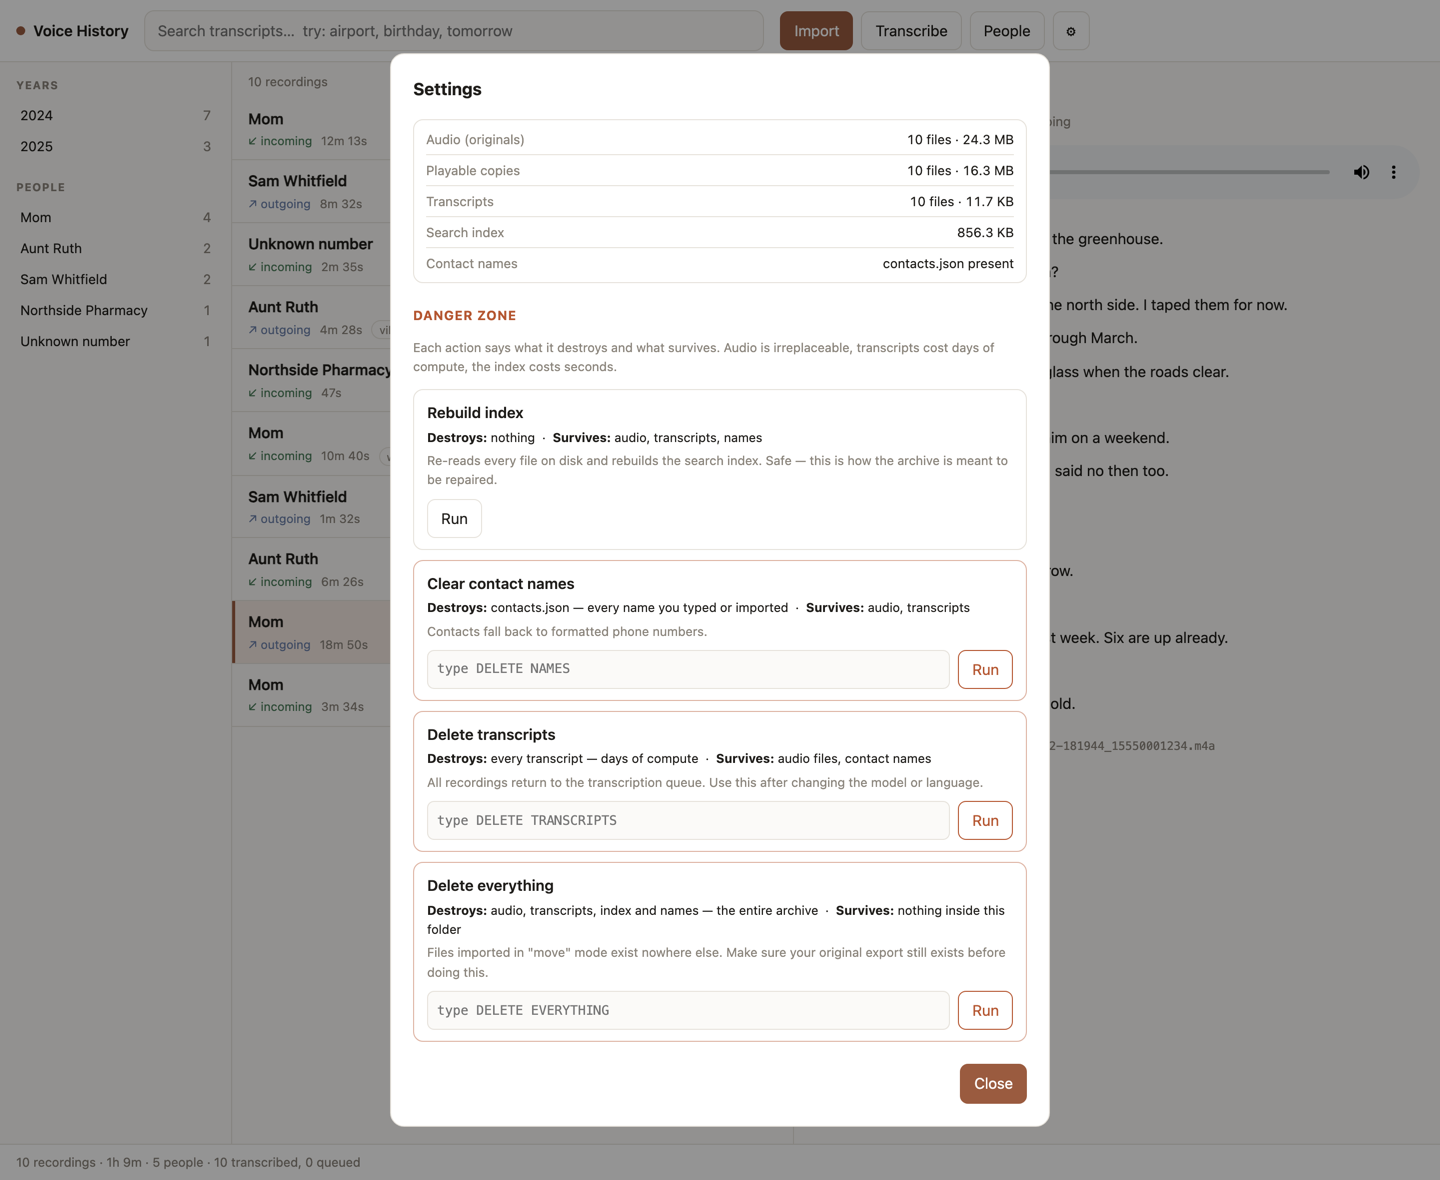
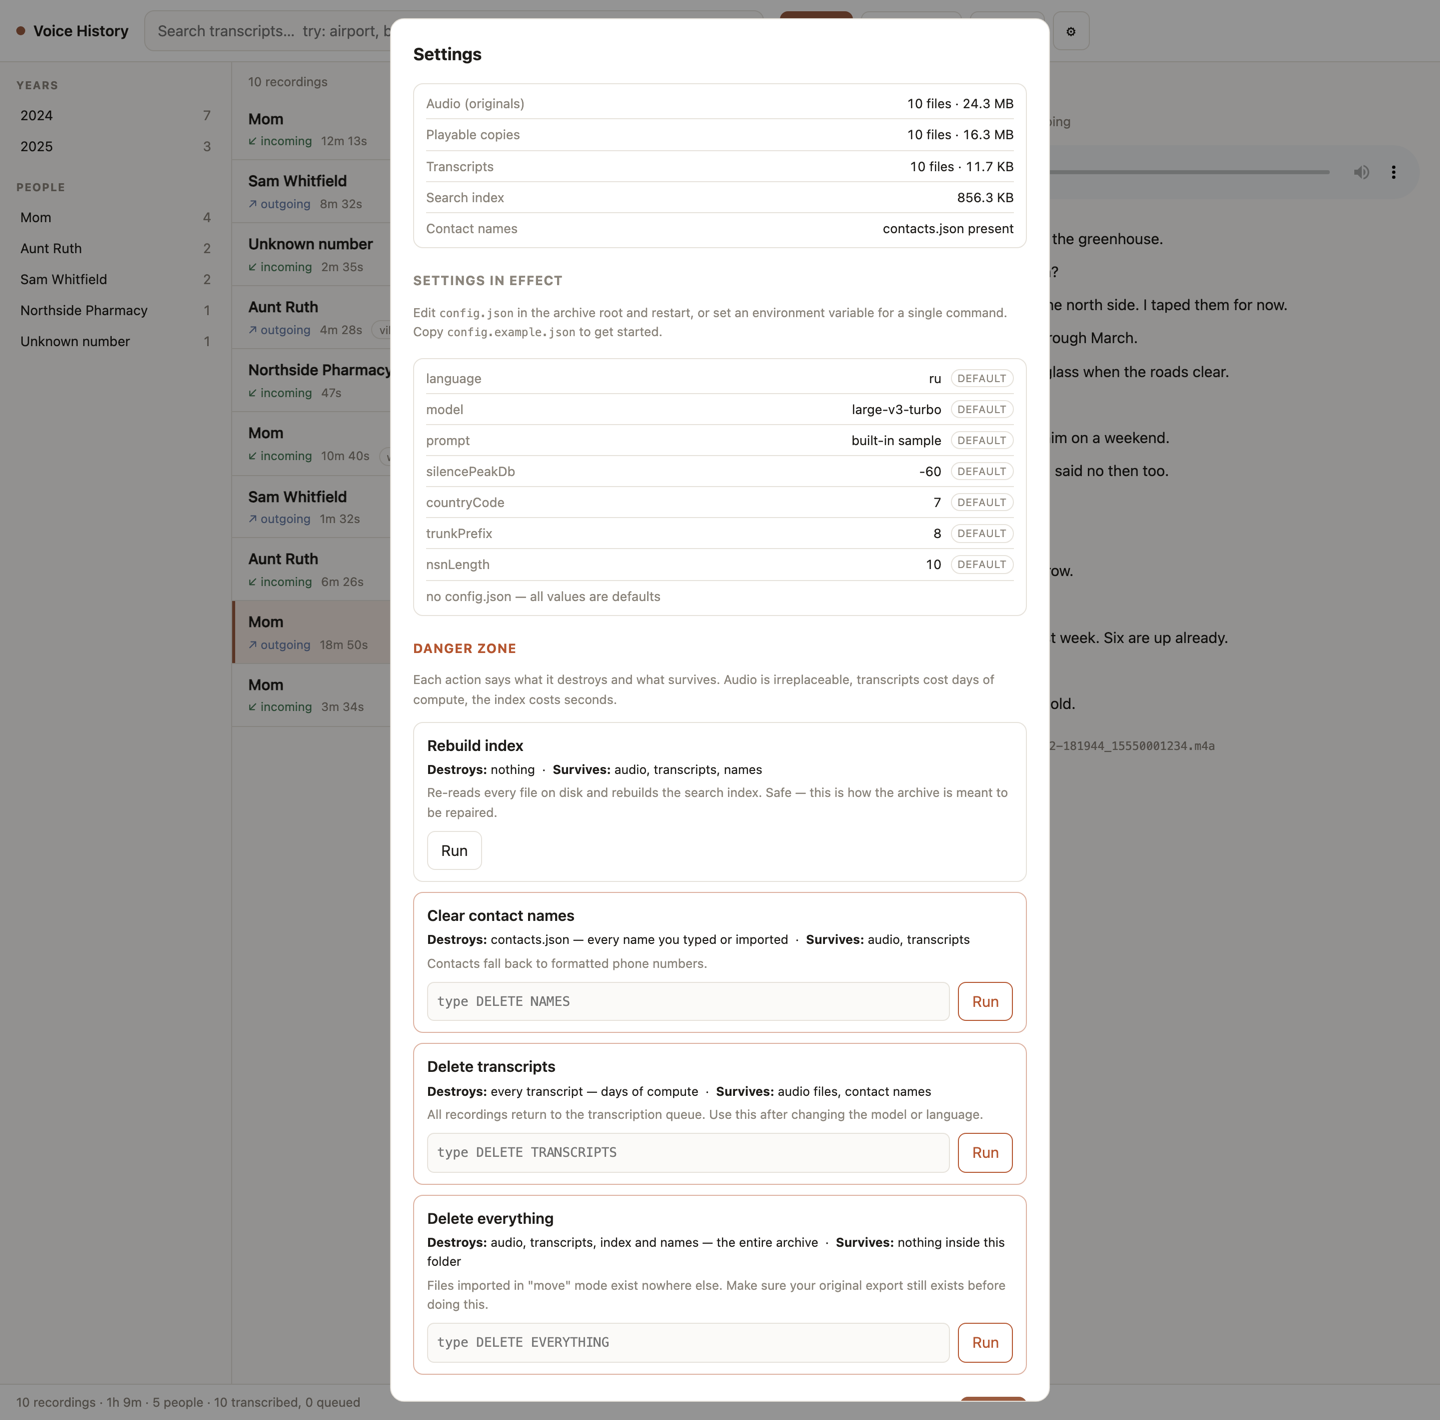
Add a config file, so settings are not env-only
Settings were read straight from process.env in whichever module needed them.
That made them invisible — nothing on disk recorded a choice — and unsafe: a
language set for `npm start` but forgotten for `node cli/vh.js transcribe`
would silently transcribe part of an archive with the wrong one.

core/config.js is now the single source, resolving environment variable over
config.json over built-in default, and reporting which of the three each value
came from. Settings displays that, so "why is it doing this" is answerable
without reading code. config.example.json is the committed template; a real
config.json stays local.

Model and silence threshold are configurable too, having been constants.

diff --git a/core/config.js b/core/config.js
@@ -1,0 +1,92 @@
+// Single source of truth for settings.
+//
+// Before this existed, every setting was read straight from process.env in
+// whichever module needed it. That made them invisible (nothing on disk records
+// your choices) and unsafe: setting a language for `npm start` but forgetting it
+// for `node cli/vh.js transcribe` silently transcribed part of the archive with
+// the wrong one.
+//
+// Precedence, highest first:
+//   1. environment variable   — one-off override for a single command
+//   2. config.json at the archive root  — your persistent settings
+//   3. built-in default
+//
+// VH_ROOT is deliberately NOT part of config.json: the file lives inside the
+// archive, so it cannot tell the program where the archive is.
+import fs from 'node:fs';
+import path from 'node:path';
+import { paths } from './paths.js';
+
+export const CONFIG_FILE = path.join(paths.root, 'config.json');
+
+function fromFile() {
+  try {
+    const raw = JSON.parse(fs.readFileSync(CONFIG_FILE, 'utf8'));
+    return raw && typeof raw === 'object' ? raw : {};
+  } catch (e) {
+    if (e.code !== 'ENOENT') {
+      console.warn(`config.json could not be read (${e.message}); using defaults`);
+    }
+    return {};
+  }
+}
+
+const file = fromFile();
+
+const pick = (envKey, fileValue, fallback) => {
+  const env = process.env[envKey];
+  if (env !== undefined && env !== '') return env;
+  // An empty string in the file is meaningful for trunkPrefix ("no prefix"),
+  // so only undefined and null fall through to the default.
+  if (fileValue !== undefined && fileValue !== null) return fileValue;
+  return fallback;
+};
+
+const numbering = file.numbering ?? {};
+
+/** Spoken language of the recordings, or 'auto' to detect per file. */
+export const LANGUAGE = String(pick('VH_LANGUAGE', file.language, 'ru'));
+
+/** Whisper model name, matching bin/models/ggml-<name>.bin */
+export const MODEL = String(pick('VH_MODEL', file.model, 'large-v3-turbo'));
+
+/**
+ * Priming prompt. `null` means "use the built-in sample for LANGUAGE" — see
+ * transcribe.js, which owns the samples.
+ */
+export const PROMPT = process.env.VH_PROMPT ?? file.prompt ?? null;
+
+/** Peak level below which a recording is treated as silent, in dBFS. */
+export const SILENCE_PEAK_DB = Number(pick('VH_SILENCE_PEAK_DB', file.silencePeakDb, -60));
+
+/** National numbering plan, used to read numbers written in local form. */
+export const NUMBERING = {
+  countryCode: String(pick('VH_COUNTRY_CODE', numbering.countryCode, '7')).replace(/\D/g, '') || '7',
+  trunkPrefix: String(pick('VH_TRUNK_PREFIX', numbering.trunkPrefix, '8')).replace(/\D/g, ''),
+  nsnLength: Number(pick('VH_NSN_LENGTH', numbering.nsnLength, 10)),
+};
+
+/** Everything in effect right now, and where each value came from. */
+export function effective() {
+  const source = (envKey, fileValue) => {
+    if (process.env[envKey] !== undefined && process.env[envKey] !== '') return 'environment';
+    return fileValue !== undefined && fileValue !== null ? 'config.json' : 'default';
+  };
+  return {
+    configFile: CONFIG_FILE,
+    configFileExists: fs.existsSync(CONFIG_FILE),
+    values: {
+      language: { value: LANGUAGE, from: source('VH_LANGUAGE', file.language) },
+      model: { value: MODEL, from: source('VH_MODEL', file.model) },
+      prompt: {
+        value: PROMPT ? `${PROMPT.slice(0, 42)}…` : 'built-in sample',
+        from: source('VH_PROMPT', file.prompt),
+      },
+      silencePeakDb: { value: SILENCE_PEAK_DB, from: source('VH_SILENCE_PEAK_DB', file.silencePeakDb) },
+      countryCode: { value: NUMBERING.countryCode, from: source('VH_COUNTRY_CODE', numbering.countryCode) },
+      trunkPrefix: { value: NUMBERING.trunkPrefix || '(none)', from: source('VH_TRUNK_PREFIX', numbering.trunkPrefix) },
+      nsnLength: { value: NUMBERING.nsnLength, from: source('VH_NSN_LENGTH', numbering.nsnLength) },
+      archiveRoot: { value: paths.root, from: process.env.VH_ROOT ? 'environment' : 'default' },
+    },
+  };
+}

diff --git a/core/transcribe.js b/core/transcribe.js
@@ -10,14 +10,14 @@ import os from 'node:os';
 import path from 'node:path';
 import { paths } from './paths.js';
 import { assertModelAllowed } from './license.js';
+import { LANGUAGE as CONFIGURED_LANGUAGE, MODEL, PROMPT } from './config.js';
 
 const run = promisify(execFile);
 
-export const DEFAULT_MODEL = 'large-v3-turbo';
+export const DEFAULT_MODEL = MODEL;
 const THREADS = Math.max(4, Math.min(8, os.cpus().length - 2));
 
-/** Spoken language of the recordings. Override with VH_LANGUAGE ('auto' works). */
-export const LANGUAGE = process.env.VH_LANGUAGE ?? 'ru';
+export const LANGUAGE = CONFIGURED_LANGUAGE;
 
 /**
  * Priming prompt. Established by measurement: when decoding WITH timestamps
@@ -29,15 +29,15 @@ export const LANGUAGE = process.env.VH_LANGUAGE ?? 'ru';
  * reading these conversations is the entire point of the archive.
  *
  * The seed MUST be written in the language being transcribed, and should read
- * like ordinary phone conversation. Override with VH_PROMPT; the default below
- * is Russian, matching the archive this was built against.
+ * like ordinary phone conversation. Set `prompt` in config.json to supply your
+ * own; the samples below are used when you do not.
  */
 const PROMPTS = {
   ru: 'Здравствуйте! Да, конечно. Хорошо, я перезвоню вам позже. Как дела?',
   en: 'Hello! Yes, of course. All right, I will call you back later. How are you?',
 };
 
-const PUNCTUATION_SEED = process.env.VH_PROMPT ?? PROMPTS[LANGUAGE] ?? PROMPTS.en;
+const PUNCTUATION_SEED = PROMPT ?? PROMPTS[CONFIGURED_LANGUAGE] ?? PROMPTS.en;
 
 /**
  * Whisper hallucinations on noise and silence. The model was trained on

diff --git a/core/contacts.js b/core/contacts.js
@@ -11,24 +11,13 @@
 // makes address-book import work: a phone exports `+X XXX XXX-XX-XX` while
 // filenames carry bare digits.
 
-/**
- * National numbering plan, used to interpret numbers written in local form.
- * Deliberately configurable rather than hardcoded, so the project is not tied
- * to the country its author happened to live in:
- *
- *   VH_COUNTRY_CODE   international dialling code, no '+'        (default 7)
- *   VH_TRUNK_PREFIX   domestic long-distance prefix, '' if none  (default 8)
- *   VH_NSN_LENGTH     digits in a national subscriber number     (default 10)
- *
- * Examples of other plans: US/Canada → code 1, no trunk prefix, 10 digits.
- * UK → code 44, trunk prefix 0, 10 digits. Germany → code 49, trunk prefix 0,
- * but variable length, so numbers there are better left in international form.
- */
-const PLAN = {
-  countryCode: String(process.env.VH_COUNTRY_CODE ?? '7').replace(/\D/g, '') || '7',
-  trunkPrefix: String(process.env.VH_TRUNK_PREFIX ?? '8').replace(/\D/g, ''),
-  nsnLength: Number(process.env.VH_NSN_LENGTH ?? 10),
-};
+// The numbering plan is configuration, not a constant, so the project is not
+// tied to the country its author happened to live in. See core/config.js —
+// set it in config.json or override per command with VH_COUNTRY_CODE and
+// friends. Other plans: US/Canada → code 1, no trunk prefix, 10 digits.
+// UK → code 44, trunk prefix 0. Germany has variable-length numbers, so those
+// are better left in international form.
+import { NUMBERING as PLAN } from './config.js';
 
 const SHORTCODE_MAX = 6;
 

diff --git a/app/renderer/ui.js b/app/renderer/ui.js
@@ -236,7 +236,7 @@ function wire() {
 /* ======================= settings ======================= */
 
 async function openSettings() {
-  const { usage, actions } = await api.maintenance();
+  const { usage, actions, config } = await api.maintenance();
 
   const u = $('set-usage');
   u.replaceChildren();
@@ -251,6 +251,22 @@ async function openSettings() {
   line('Transcripts', `${usage.transcripts.files} files · ${fmtBytes(usage.transcripts.bytes)}`);
   line('Search index', fmtBytes(usage.index.bytes));
   line('Contact names', usage.names ? 'contacts.json present' : 'none');
+
+  // Where each value came from matters as much as the value: it answers
+  // "why is it doing that" without hunting through the code.
+  const c = $('set-config');
+  c.replaceChildren();
+  for (const [key, { value, from }] of Object.entries(config.values)) {
+    const row = el('div', 'usage-row');
+    row.append(el('span', 'muted', key));
+    const right = el('span', '');
+    right.append(el('span', '', esc(String(value))), el('span', 'from', esc(from)));
+    row.append(right);
+    c.append(row);
+  }
+  if (!config.configFileExists) {
+    c.append(el('div', 'usage-row muted tiny', '<span>no config.json — all values are defaults</span><span></span>'));
+  }
 
   const list = $('set-actions');
   list.replaceChildren();

diff --git a/app/renderer/style.css b/app/renderer/style.css
@@ -212,7 +212,13 @@ dialog.wide-dlg { max-width: 660px; }
 .usage-row + .usage-row { border-top: 1px solid var(--line); }
 .usage-row span:last-child { font-variant-numeric: tabular-nums; text-align: right; word-break: break-all; }
 
+.sect-title { margin: 22px 0 4px; font-size: 13px; text-transform: uppercase; letter-spacing: .06em; color: var(--muted); }
 .danger-title { margin: 22px 0 4px; font-size: 13px; text-transform: uppercase; letter-spacing: .06em; color: #b4552f; }
+.usage-row .from {
+  display: inline-block; margin-left: 9px; padding: 0 6px; border-radius: 20px;
+  border: 1px solid var(--line); font-size: 10.5px; color: var(--muted);
+  text-transform: uppercase; letter-spacing: .04em; vertical-align: 1px;
+}
 .actions-list { display: flex; flex-direction: column; gap: 10px; margin-top: 12px; }
 .action-box { border: 1px solid var(--line); border-radius: 10px; padding: 11px 13px; }
 .action-box.danger { border-color: rgba(180, 85, 47, .45); }

diff --git a/cli/server.js b/cli/server.js
@@ -19,6 +19,7 @@ import { reindex } from '../core/reindex.js';
 import { DEFAULT_MODEL, modelAvailable } from '../core/transcribe.js';
 import { vcardsToOverrides } from '../core/contactbook.js';
 import * as maintenance from '../core/maintenance.js';
+import { effective } from '../core/config.js';
 
 const WEB = path.resolve(path.dirname(fileURLToPath(import.meta.url)), '..', 'app', 'renderer');
 
@@ -157,7 +158,7 @@ async function api(req, res, url) {
       const specs = Object.fromEntries(
         Object.entries(maintenance.ACTIONS).map(([k, v]) => [k, { ...v, needsConfirm: Boolean(v.confirm) }]),
       );
-      return json(res, 200, { usage: maintenance.usage(), actions: specs });
+      return json(res, 200, { usage: maintenance.usage(), actions: specs, config: effective() });
     }
 
     case 'maintenance/run': {

diff --git a/core/audio.js b/core/audio.js
@@ -9,6 +9,7 @@ import { execFile } from 'node:child_process';
 import { promisify } from 'node:util';
 import fs from 'node:fs';
 import path from 'node:path';
+import { SILENCE_PEAK_DB } from './config.js';
 
 const run = promisify(execFile);
 
@@ -40,8 +41,8 @@ export const PLAYBACK_FORMAT = 'm4a';
  */
 const SPEECH_FILTER = 'speechnorm';
 
-/** Anything peaking below this is digital silence, not quiet speech. */
-export const SILENCE_MAX_DB = -60;
+/** Anything peaking below this is digital silence, not quiet speech. Configurable. */
+export const SILENCE_MAX_DB = SILENCE_PEAK_DB;
 
 /**
  * Peak and mean level in dBFS.

diff --git a/app/renderer/index.html b/app/renderer/index.html
@@ -152,6 +152,10 @@
 
   <div id="set-usage" class="usage"></div>
 
+  <h3 class="sect-title">Settings in effect</h3>
+  <p class="muted tiny">Edit <code>config.json</code> in the archive root and restart, or set an environment variable for a single command. Copy <code>config.example.json</code> to get started.</p>
+  <div id="set-config" class="usage"></div>
+
   <h3 class="danger-title">Danger zone</h3>
   <p class="muted tiny">Each action says what it destroys and what survives. Audio is irreplaceable, transcripts cost days of compute, the index costs seconds.</p>
   <div id="set-actions" class="actions-list"></div>

diff --git a/README.md b/README.md
@@ -86,21 +86,42 @@ costs one `reindex` instead of re-transcribing days of audio.
 
 ## Configuration
 
-Nothing about language or phone numbering is hardcoded. Defaults match the
-archive this was built against.
-
-| Variable | Default | Meaning |
-|---|---|---|
-| `VH_LANGUAGE` | `ru` | Spoken language, or `auto` to detect |
-| `VH_PROMPT` | Russian sample | Priming prompt — must be in the target language |
-| `VH_COUNTRY_CODE` | `7` | Dialling code for interpreting local numbers |
-| `VH_TRUNK_PREFIX` | `8` | Domestic long-distance prefix, empty if none |
-| `VH_NSN_LENGTH` | `10` | Digits in a national subscriber number |
-| `VH_ROOT` | project folder | Archive location |
+Settings live in **`config.json`** at the archive root. Copy the template and
+edit it:
 
 ```bash
-VH_LANGUAGE=en VH_COUNTRY_CODE=1 VH_TRUNK_PREFIX= npm start
+cp config.example.json config.json
 ```
+
+```json
+{
+  "language": "en",
+  "model": "large-v3-turbo",
+  "prompt": null,
+  "silencePeakDb": -60,
+  "numbering": { "countryCode": "1", "trunkPrefix": "", "nsnLength": 10 }
+}
+```
+
+Every key is optional. Nothing about the language or the phone numbering plan is
+hardcoded; the defaults simply match the archive this was built against
+(Russian, country code 7). `prompt` is the priming text that makes the
+recognizer produce punctuation at all — it **must** be written in the language
+you are transcribing, and `null` selects a built-in sample.
+
+For a one-off run, an environment variable overrides the file:
+
+```bash
+VH_LANGUAGE=en npm run transcribe
+```
+
+`VH_LANGUAGE`, `VH_MODEL`, `VH_PROMPT`, `VH_SILENCE_PEAK_DB`,
+`VH_COUNTRY_CODE`, `VH_TRUNK_PREFIX`, `VH_NSN_LENGTH`. The archive location is
+env-only — `VH_ROOT` — since a file inside the archive cannot say where the
+archive is.
+
+Settings shows every value in effect and whether it came from the file, the
+environment or a default.
 
 ## Commands
 
